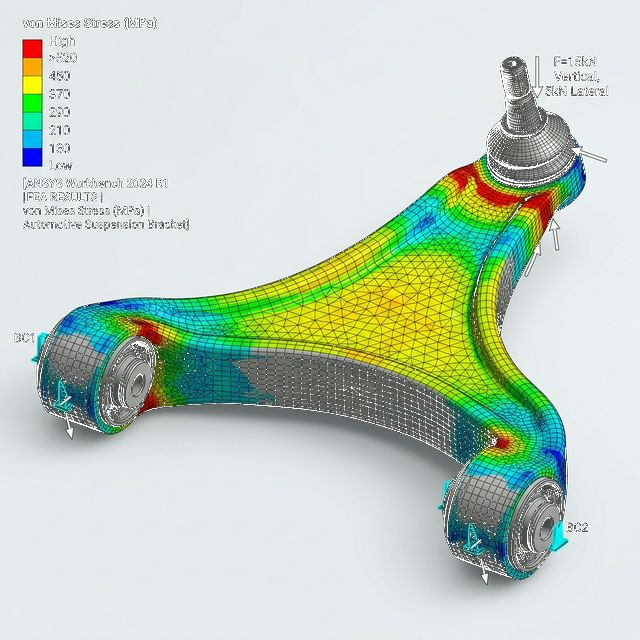
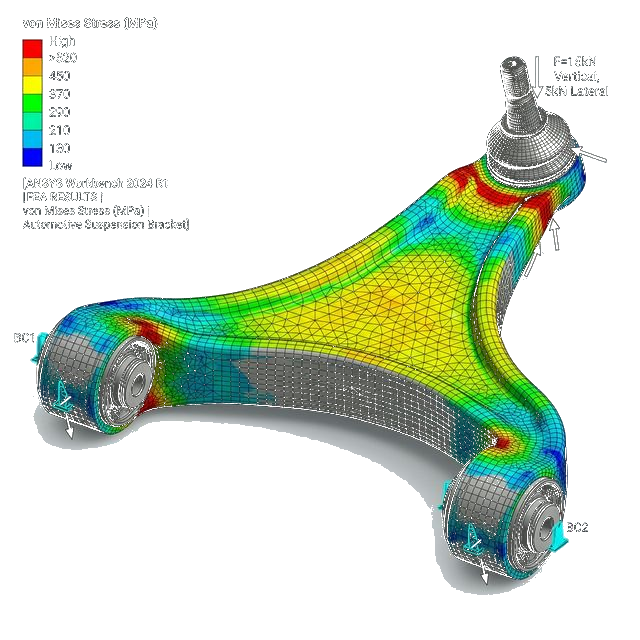
fix(assets): remove light and dark backgrounds from all PNG images across the project

diff --git a/src/components/EngineeringImage.jsx b/src/components/EngineeringImage.jsx
@@ -10,7 +10,7 @@ export default function EngineeringImage({
       <img 
         src={src} 
         alt={alt} 
-        className="w-full h-auto max-h-[480px] object-contain mix-blend-screen transition-transform duration-500 ease-out group-hover:scale-[1.03] filter drop-shadow-[0_10px_25px_rgba(229,27,35,0.15)]"
+        className="w-full h-auto max-h-[480px] object-contain transition-transform duration-500 ease-out group-hover:scale-[1.03] filter drop-shadow-[0_10px_30px_rgba(229,27,35,0.12)]"
         loading="lazy"
       />
     </div>
